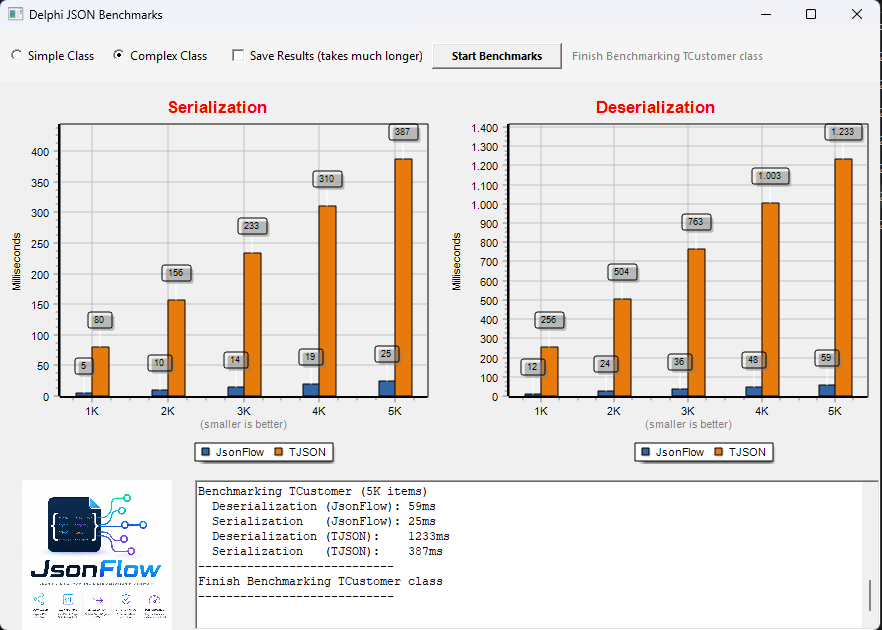
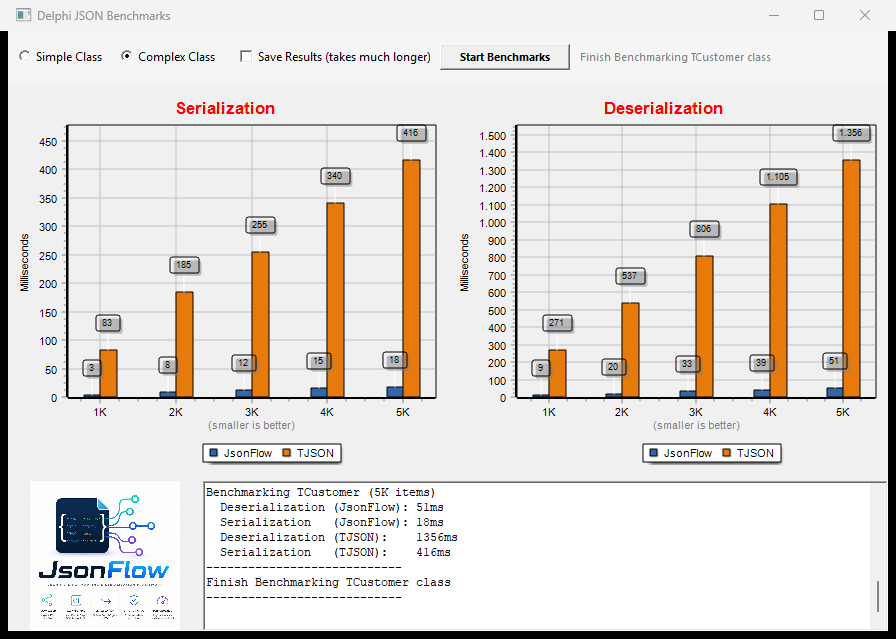
Merge pull request #53 from ModernDelphiWorks/docs/benchmark-prints-refresh
docs: prints do benchmark atualizados pós-auditoria

Pull request: docs: prints do benchmark atualizados pós-auditoria
## O que muda

Atualiza os dois gráficos do README (`assets/benchmarks.png` e `assets/benchmarks-xsuperobject.png`) com capturas novas dos benchmarks GUI, agora compilados com o JsonFlow pós-auditoria (PRs #41–#52), e ajusta os números citados no texto.

## Números novos (Release Win32, mediana de 3 runs, Complex Class 5K TCustomer)

| Comparação | Deserialização | Serialização |
| :-- | :-- | :-- |
| **vs TJSON nativo** | 51ms vs 1.356ms (**~26×**) | 18ms vs 416ms (**~23×**) |
| **vs X-SuperObject** | 47ms vs 319ms (**~7×**) | 19ms vs 298ms (**~15×**) |

Antes (prints antigos): vs TJSON 59/25ms JF, vs XSO 50/19ms JF — o ganho extra veio das fases F/G da auditoria.

## Metodologia

Mesma de sempre: parse do texto fora do cronômetro (marshalling puro), entidades idênticas nas duas bibliotecas, enums como ordinal na entrada do XSO (limitação da lib), 3 runs alternados com variação <10%, captura do último run (representativo da mediana).

🤖 Generated with [Claude Code](https://claude.com/claude-code)

diff --git a/README.md b/README.md
@@ -29,7 +29,7 @@
 *   **In-Place Dynamic Composer:** Load and modify complex JSON structures in-place. Traverse nested elements fluidly using path strings (e.g., `user.address[0].zip`).
 *   **Draft 7 JSON Schema Validation:** Fully validate JSON structures against Draft 7 specifications with detailed local error paths (`Path` and `SchemaPath`).
 *   **Audited, Benchmark-Backed Performance** (July 2026 hot-path audit, reproducible console harnesses):
-    *   *Serialization/Deserialization:* up to 15× faster serialization and 6× faster deserialization than X-SuperObject (see charts below).
+    *   *Serialization/Deserialization:* up to 15× faster serialization and 7× faster deserialization than X-SuperObject (see charts below).
     *   *Schema Validation:* 3.1× faster after identity-based compile caching and precompiled regex rules.
     *   *Path-based Editing:* array inserts and path operations up to 33× faster via `IJSONArray.Insert` and reusable navigation.
 *   **Extensible Middleware System:** Intercept, encrypt, decrypt, or format specific JSON fields (e.g., dates, currency, custom types) on the fly — with a compiler-enforced contract validated at registration.
@@ -49,7 +49,7 @@ Below is a comparison demonstrating JsonFlow's performance superiority against s
   <img src="assets/benchmarks.png" alt="JsonFlow Performance Comparison Chart" width="800"/>
 </p>
 
-JsonFlow was also benchmarked against the popular [X-SuperObject](https://github.com/onryldz/x-superobject) library — Complex Class scenario (1K to 5K `TCustomer` objects with nested `Address` and `Contacts`). At the 5K scale (Release, Win32): **~6× faster deserialization** (50ms vs 316ms) and **~15× faster serialization** (19ms vs 282ms):
+JsonFlow was also benchmarked against the popular [X-SuperObject](https://github.com/onryldz/x-superobject) library — Complex Class scenario (1K to 5K `TCustomer` objects with nested `Address` and `Contacts`). At the 5K scale (Release, Win32): **~7× faster deserialization** (47ms vs 319ms) and **~15× faster serialization** (19ms vs 298ms):
 
 <p align="center">
   <img src="assets/benchmarks-xsuperobject.png" alt="JsonFlow vs X-SuperObject Performance Comparison Chart" width="800"/>

diff --git a/README.pt-BR.md b/README.pt-BR.md
@@ -25,7 +25,7 @@
 *   **Composer Dinâmico In-Place:** Carregue e modifique estruturas JSON em tempo de execução usando strings de caminho simples e legíveis (ex: `usuario.endereco[0].cep`).
 *   **Validação de JSON Schema Draft 7:** Valide seus dados JSON contra especificações Draft 7 com mapeamento detalhado dos erros (`Path` e `SchemaPath`).
 *   **Performance Auditada e Comprovada por Benchmark** (auditoria de hot paths de jul/2026, harnesses reproduzíveis):
-    *   *Serialização/Deserialização:* até 15× mais rápida na serialização e 6× na deserialização que o X-SuperObject (gráficos abaixo).
+    *   *Serialização/Deserialização:* até 15× mais rápida na serialização e 7× na deserialização que o X-SuperObject (gráficos abaixo).
     *   *Validação de Schema:* 3,1× mais rápida com cache de compilação por identidade e regexes pré-compiladas.
     *   *Edição por Path:* inserções em array e operações por caminho até 33× mais rápidas via `IJSONArray.Insert` e navegação reutilizável.
 *   **Middlewares de Processamento:** Criptografe, descriptografe ou formate campos de JSON (como CPFs, CNPJs e datas) dinamicamente no fluxo — com contrato validado no registro.
@@ -45,7 +45,7 @@ Abaixo está o gráfico comparativo demonstrando a superioridade de performance 
   <img src="assets/benchmarks.png" alt="Gráfico Comparativo de Performance do JsonFlow" width="800"/>
 </p>
 
-O JsonFlow também foi comparado com a popular biblioteca [X-SuperObject](https://github.com/onryldz/x-superobject) — cenário Complex Class (1K a 5K objetos `TCustomer` com `Address` e `Contacts` aninhados). Na escala de 5K (Release, Win32): **deserialização ~6× mais rápida** (50ms vs 316ms) e **serialização ~15× mais rápida** (19ms vs 282ms):
+O JsonFlow também foi comparado com a popular biblioteca [X-SuperObject](https://github.com/onryldz/x-superobject) — cenário Complex Class (1K a 5K objetos `TCustomer` com `Address` e `Contacts` aninhados). Na escala de 5K (Release, Win32): **deserialização ~7× mais rápida** (47ms vs 319ms) e **serialização ~15× mais rápida** (19ms vs 298ms):
 
 <p align="center">
   <img src="assets/benchmarks-xsuperobject.png" alt="Gráfico Comparativo JsonFlow vs X-SuperObject" width="800"/>